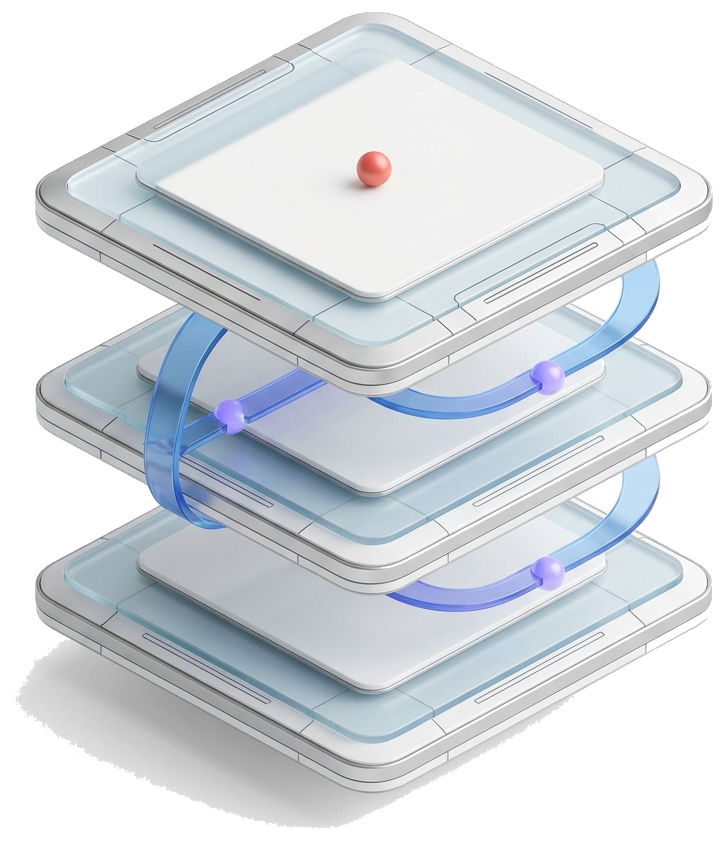
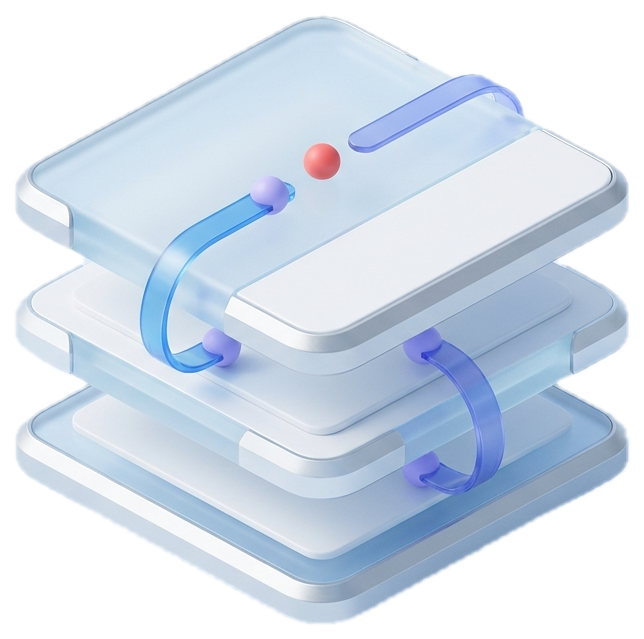
fix(docs-card-options): lift original Option B 3D subject cleanly into transparent PNG

diff --git a/cann-dashboard/docs-card-options.html b/cann-dashboard/docs-card-options.html
@@ -135,7 +135,7 @@
         <!-- Hero 右侧 3D 架构插画（透明底独立主体） -->
         <div class="hidden lg:flex items-center justify-end flex-shrink-0 pointer-events-none select-none">
           <img
-            src="assets/cann-docs-hero-layers.png"
+            src="assets/cann-docs-hero-layers.png?v=2"
             alt="CANN 开源文档三层架构 3D 插画"
             class="hero-3d-art h-[230px] xl:h-[250px] w-auto object-contain"
           />

diff --git a/AGENTS.md b/AGENTS.md
@@ -9586,5 +9586,5 @@ node node_modules/vitepress/bin/vitepress.js dev --port 5300
 - 此轮仅替换试稿图像，不改变证据、页面序列或 API / Host / Application 边界；基于最新 main 单独提交并推送。
 
 ### 2026-11-23（docs-card-options Hero 右侧 3D 插画）
-- 基于 `cann-3d-illustration` skill 为 `cann-dashboard/docs-card-options.html` 首屏 Hero 提供了三种 3D 图形方案供用户选择；用户选定方案 B（三层软件栈计算板），并生成纯白底孤立主体后抠除背景保存为透明 PNG（`cann-dashboard/assets/cann-docs-hero-layers.png`，移除旧 `.jpg`），彻底去掉渐变椭圆遮罩。
+- 基于 `cann-3d-illustration` skill 为 `cann-dashboard/docs-card-options.html` 首屏 Hero 提供了三种 3D 图形方案供用户选择；用户选定方案 B（三层软件栈计算板）。直接对原版方案 B 通过 macOS Vision `VNGenerateForegroundInstanceMaskRequest` 抠出透明 PNG 主体（`cann-dashboard/assets/cann-docs-hero-layers.png`，引用加 `?v=2` 破除缓存），完整保留圆润磨砂玻璃质感与通透色彩，彻底去掉背景和阴影噪点。
 - Hero 上半主体保持亮白 `#FFFFFF`，去掉网格纹理，改为散落的蓝/紫/珊瑚红轻盈几何装饰微粒（圆点、细十字、空心环、微胶囊与小菱形，避开左侧文字区），下边缘锚定三色虹彩柔光（`.hero-banner-bg`），下方画布为中性冷灰 `#ECEFF5`；仅暂存本任务文件并推送 `origin/main`。
